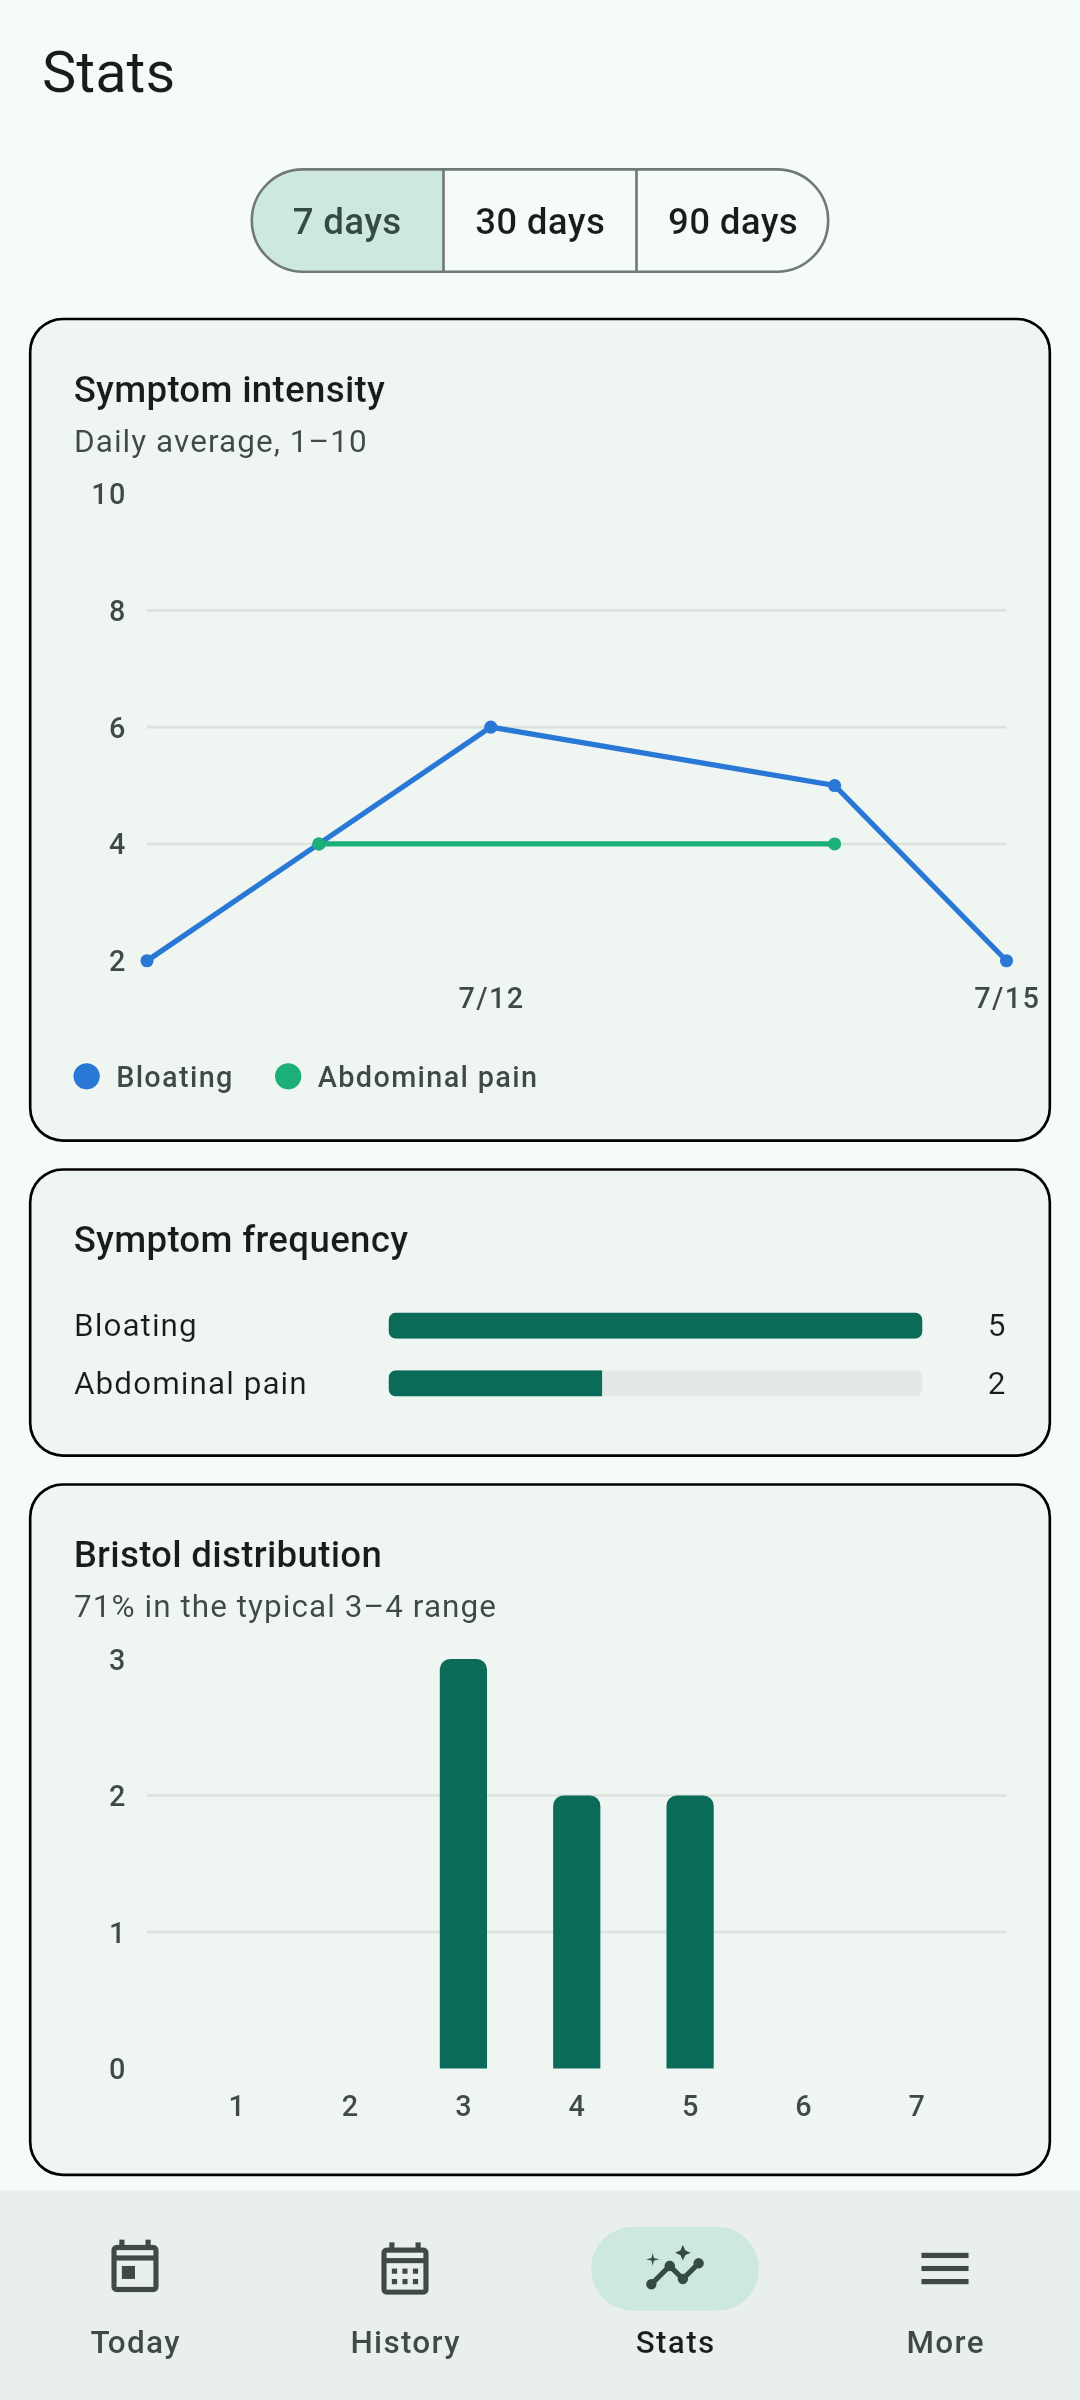
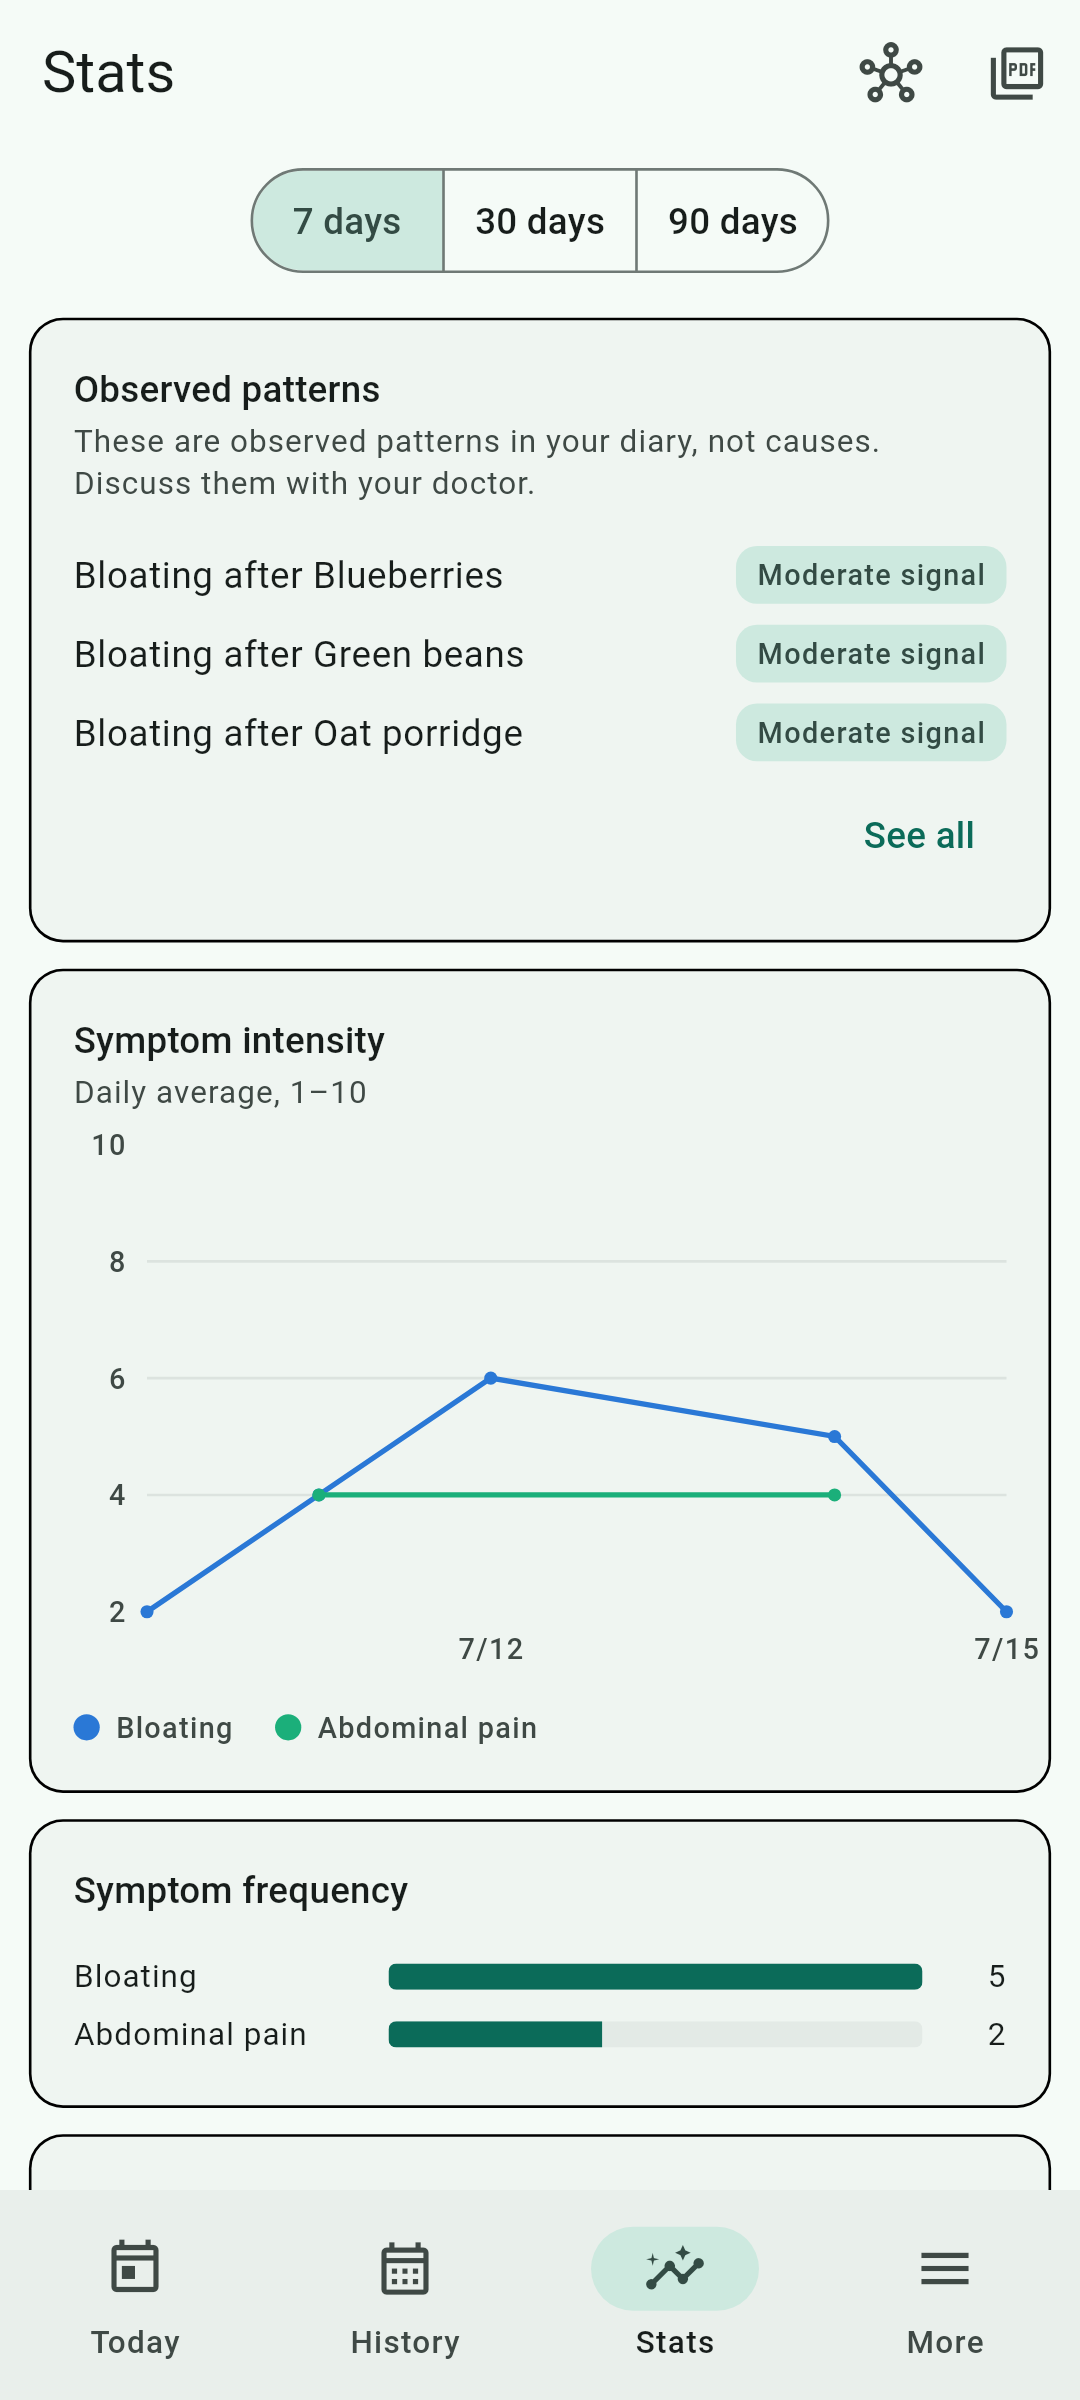
docs: observed patterns screenshots, README and changelog

diff --git a/tool/screenshots/render_screenshots_test.dart b/tool/screenshots/render_screenshots_test.dart
@@ -110,6 +110,10 @@ void main() {
     await tester.pumpAndSettle();
     await capture('stats');
 
+    await tester.tap(find.byTooltip('Observed patterns'));
+    await tester.pumpAndSettle();
+    await capture('correlations');
+
     // Unmount and deliberately LEAK the database: after runAsync drift's
     // teardown timers straddle the fake and real event loops and close()
     // deadlocks. This is a one-shot tool process — the OS reclaims it.

diff --git a/CHANGELOG.md b/CHANGELOG.md
@@ -6,6 +6,16 @@ The format is based on [Keep a Changelog](https://keepachangelog.com/en/1.1.0/),
 and this project adheres to
 [Semantic Versioning](https://semver.org/spec/v2.0.0.html).
 
+## [Unreleased]
+
+### Added
+
+- **Observed patterns**: the Statistics tab now surfaces meal ↔ symptom
+  associations observed in the diary. For each food, the app compares how
+  often a symptom followed meals with it (within a selectable 4/8/24h
+  window) against meals without it, always showing the raw counts. Patterns
+  are observations to discuss with your doctor — never causes or advice.
+
 ## [0.1.2] - 2026-07-17
 
 ### Added

diff --git a/README.md b/README.md
@@ -25,9 +25,9 @@ Gut Journey keeps everything in one place, fully on your device.
 
 ## Screenshots
 
-| Today | History | Stats |
-| :---: | :---: | :---: |
-| <img src="docs/screenshots/today.png" alt="Today screen with the day timeline" width="260"> | <img src="docs/screenshots/history.png" alt="History calendar with per-category markers" width="260"> | <img src="docs/screenshots/stats.png" alt="Statistics dashboard" width="260"> |
+| Today | History | Stats | Patterns |
+| :---: | :---: | :---: | :---: |
+| <img src="docs/screenshots/today.png" alt="Today screen with the day timeline" width="200"> | <img src="docs/screenshots/history.png" alt="History calendar with per-category markers" width="200"> | <img src="docs/screenshots/stats.png" alt="Statistics dashboard" width="200"> | <img src="docs/screenshots/correlations.png" alt="Observed meal-symptom patterns" width="200"> |
 
 ## Features
 
@@ -41,8 +41,8 @@ Gut Journey keeps everything in one place, fully on your device.
 | Statistics: trends, distributions, summaries | ✅ |
 | Italian + English | ✅ |
 | Backup & restore (database file + JSON export) | ✅ |
-| PDF export for your doctor | 🔮 Planned |
-| Food ↔ symptom correlation insights | 🔮 Planned |
+| PDF export for your doctor | ✅ |
+| Observed meal ↔ symptom patterns (time-window comparison) | ✅ |
 | Low FODMAP reintroduction-phase module | 🔮 Planned |
 | Multi-device sync | 🔮 Planned |
 